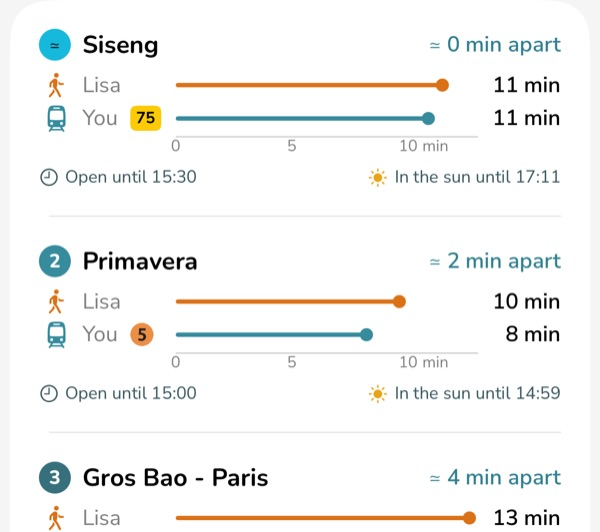
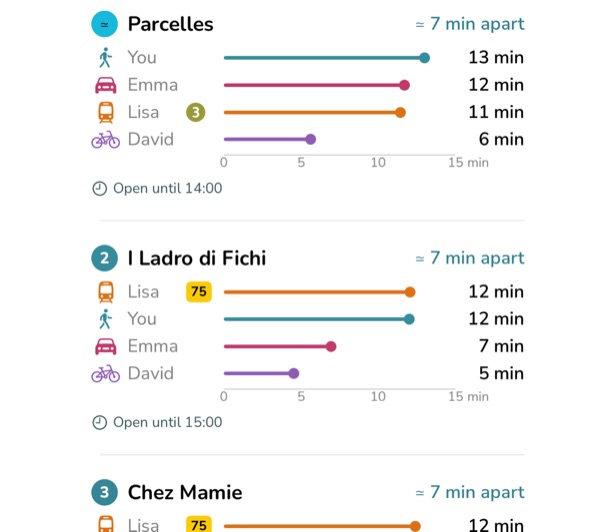
Landing: step 3 from the group screen; AlephB monogram in blue on the baseline
- How it works, step 3: the ranked spots of the same 02-group screen as
  steps 1 and 2 (same four friends, the step 2 spot first).
- Footer (landing pages and privacy): the monogram is painted in
  var(--tint) like the word, at cap height on the text's baseline.

Claude-Session: https://claude.ai/code/session_01DPYBVo6XJBHKjMg9L24xGH

diff --git a/fr/index.html b/fr/index.html
@@ -131,7 +131,7 @@ layout: null
     <ol class="steps">
       <li><img class="step-shot" src="/img/fr/how-1.jpg" alt="Quatre personnes, chacune avec son point de départ, et de quoi ajouter quelqu’un ou inviter des amis" width="600" height="532" loading="lazy"><h3>Ajoute tout le monde</h3><p>Pars d’où tu es, ajoute tes amis ou invite-les avec un lien. À deux ou à dix, chacun avec son point de départ.</p></li>
       <li><img class="step-shot" src="/img/fr/how-2.jpg" alt="Le moyen de transport et le temps de trajet de chacun jusqu’à une adresse" width="600" height="532" loading="lazy"><h3>Dis comment chacun vient</h3><p>L’une vient à pied, l’autre en métro, le troisième à vélo. Le temps de chacun est calculé avec son vrai moyen de transport.</p></li>
-      <li><img class="step-shot" src="/img/fr/how-3.jpg" alt="Les adresses classées, chacune avec l’écart en minutes entre les temps de trajet" width="600" height="532" loading="lazy"><h3>Choisis parmi les adresses les plus justes</h3><p>Les bars, cafés et restaurants où les temps de trajet sont les plus proches arrivent en tête. Ouvre l’itinéraire ou partage l’adresse en un geste.</p></li>
+      <li><img class="step-shot" src="/img/fr/how-3.jpg" alt="Les adresses classées pour les quatre mêmes amis, chacune avec l’écart en minutes entre leurs temps de trajet" width="600" height="532" loading="lazy"><h3>Choisis parmi les adresses les plus justes</h3><p>Les bars, cafés et restaurants où les temps de trajet sont les plus proches arrivent en tête. Ouvre l’itinéraire ou partage l’adresse en un geste.</p></li>
     </ol>
   </section>
 

diff --git a/es/index.html b/es/index.html
@@ -131,7 +131,7 @@ layout: null
     <ol class="steps">
       <li><img class="step-shot" src="/img/es/how-1.jpg" alt="Cuatro personas, cada una con su punto de partida, y botones para añadir a alguien o invitar a amigos" width="600" height="532" loading="lazy"><h3>Añade a todos</h3><p>Empieza desde donde estás y añade a tus amigos o invítalos con un enlace. Dos personas o un grupo entero, cada uno con su punto de partida.</p></li>
       <li><img class="step-shot" src="/img/es/how-2.jpg" alt="La forma de moverse y el tiempo de trayecto de cada uno hasta un lugar" width="600" height="532" loading="lazy"><h3>Di cómo va cada uno</h3><p>Una va andando, otro en metro, otra en bici. Cada trayecto se calcula según cómo se mueve de verdad esa persona.</p></li>
-      <li><img class="step-shot" src="/img/es/how-3.jpg" alt="Los lugares ordenados, cada uno con cuántos minutos separan los tiempos de trayecto" width="600" height="532" loading="lazy"><h3>Elige entre los lugares más justos</h3><p>Primero salen los bares, cafeterías y restaurantes donde los tiempos de trayecto de todos se parecen más. Abre la ruta o comparte el lugar con un toque.</p></li>
+      <li><img class="step-shot" src="/img/es/how-3.jpg" alt="Los lugares ordenados para los mismos cuatro amigos, cada uno con cuántos minutos separan sus tiempos de trayecto" width="600" height="532" loading="lazy"><h3>Elige entre los lugares más justos</h3><p>Primero salen los bares, cafeterías y restaurantes donde los tiempos de trayecto de todos se parecen más. Abre la ruta o comparte el lugar con un toque.</p></li>
     </ol>
   </section>
 

diff --git a/landing.css b/landing.css
@@ -216,12 +216,12 @@ section[aria-labelledby="sun-title"] .feature li::before { content: "\2600\FE0F"
 footer { padding-block: 40px 56px; border-top: 1px solid var(--hair); display: flex; flex-wrap: wrap; gap: 16px 32px; justify-content: space-between; font-size: 15px; color: var(--muted); }
 footer .links { display: flex; flex-wrap: wrap; gap: 20px; }
 footer a { color: var(--muted); }
-/* AlephB’s monogram after its name, in the link’s colour (a mask, so it follows light and dark). */
-.alephb { display: inline-flex; align-items: center; gap: 5px; }
+/* AlephB’s monogram after its name, in the brand blue (a mask), sitting on the text’s baseline at cap height. */
+.alephb { white-space: nowrap; }
 /* AlephB and the email in the brand blue, underlined on hover. */
 footer a.alephb, footer a[href^="mailto:"] { color: var(--tint); text-decoration: none; }
 footer a.alephb:hover, footer a[href^="mailto:"]:hover { text-decoration: underline; }
-.alephb-logo { width: 27px; height: 15px; background: currentColor; -webkit-mask: url(/img/alephb.svg) center / contain no-repeat; mask: url(/img/alephb.svg) center / contain no-repeat; }
+.alephb-logo { display: inline-block; height: 0.7em; width: 1.27em; margin-left: 0.3em; vertical-align: baseline; background-color: var(--tint); -webkit-mask-image: url(/img/alephb.svg); mask-image: url(/img/alephb.svg); -webkit-mask-size: contain; mask-size: contain; -webkit-mask-repeat: no-repeat; mask-repeat: no-repeat; -webkit-mask-position: left bottom; mask-position: left bottom; }
 .email { user-select: all; color: var(--fg); }
 
 @media (max-width: 860px) {

diff --git a/de/index.html b/de/index.html
@@ -131,7 +131,7 @@ layout: null
     <ol class="steps">
       <li><img class="step-shot" src="/img/de/how-1.jpg" alt="Vier Personen, alle mit ihrem Startpunkt, und Knöpfe, um jemanden hinzuzufügen oder Freunde einzuladen" width="600" height="532" loading="lazy"><h3>Alle hinzufügen</h3><p>Starte da, wo du bist, und füge Freunde hinzu oder lade sie per Link ein. Zu zweit oder als ganze Gruppe, alle mit ihrem eigenen Startpunkt.</p></li>
       <li><img class="step-shot" src="/img/de/how-2.jpg" alt="Verkehrsmittel und Fahrzeit aller zu einem Ort" width="600" height="532" loading="lazy"><h3>Sag, wie alle hinkommen</h3><p>Eine läuft, einer nimmt die U-Bahn, eine fährt Rad. Jeder Weg wird so berechnet, wie die Person wirklich unterwegs ist.</p></li>
-      <li><img class="step-shot" src="/img/de/how-3.jpg" alt="Die Orte in Reihenfolge, jeweils mit dem Unterschied der Fahrzeiten in Minuten" width="600" height="532" loading="lazy"><h3>Wähl aus den fairsten Orten</h3><p>Bars, Cafés und Restaurants, bei denen die Fahrzeiten aller am nächsten beieinanderliegen, stehen oben. Öffne die Route oder teile den Ort mit einem Tipp.</p></li>
+      <li><img class="step-shot" src="/img/de/how-3.jpg" alt="Die Orte in Reihenfolge für dieselben vier Freunde, jeweils mit dem Unterschied ihrer Fahrzeiten in Minuten" width="600" height="532" loading="lazy"><h3>Wähl aus den fairsten Orten</h3><p>Bars, Cafés und Restaurants, bei denen die Fahrzeiten aller am nächsten beieinanderliegen, stehen oben. Öffne die Route oder teile den Ort mit einem Tipp.</p></li>
     </ol>
   </section>
 

diff --git a/_includes/landing-en.html b/_includes/landing-en.html
@@ -142,7 +142,7 @@
     <ol class="steps">
       <li><img class="step-shot" src="/img/en/how-1.jpg" alt="Four people, each with their starting place, and buttons to add another person or invite friends" width="600" height="532" loading="lazy"><h3>Add everyone</h3><p>Start from where you are, then add friends or invite them with a link. Two people or a whole group, each with their own starting point.</p></li>
       <li><img class="step-shot" src="/img/en/how-2.jpg" alt="Each person’s way of travelling and travel time to one spot" width="600" height="532" loading="lazy"><h3>Say how each one travels</h3><p>One walks, one takes the metro, one cycles. Every journey is timed the way that person actually travels.</p></li>
-      <li><img class="step-shot" src="/img/en/how-3.jpg" alt="The spots ranked, each with how many minutes apart everyone’s travel times are" width="600" height="532" loading="lazy"><h3>Pick from the fairest spots</h3><p>Bars, cafés and restaurants come first where everyone’s travel times are closest. Open the route or share the spot in one tap.</p></li>
+      <li><img class="step-shot" src="/img/en/how-3.jpg" alt="The ranked spots for the same four friends, each with how many minutes apart their travel times are" width="600" height="532" loading="lazy"><h3>Pick from the fairest spots</h3><p>Bars, cafés and restaurants come first where everyone’s travel times are closest. Open the route or share the spot in one tap.</p></li>
     </ol>
   </section>
 

diff --git a/privacy.html b/privacy.html
@@ -52,8 +52,8 @@ main .email { font-weight: 550; }
 
 footer { padding-block: 40px 56px; border-top: 1px solid var(--hair); display: flex; flex-wrap: wrap; gap: 16px 32px; justify-content: space-between; font-size: 15px; color: var(--muted); }
 footer .links { display: flex; flex-wrap: wrap; gap: 20px; }
-.alephb { display: inline-flex; align-items: center; gap: 5px; }
-.alephb-logo { width: 27px; height: 15px; background: currentColor; -webkit-mask: url(/img/alephb.svg) center / contain no-repeat; mask: url(/img/alephb.svg) center / contain no-repeat; }
+.alephb { white-space: nowrap; }
+.alephb-logo { display: inline-block; height: 0.7em; width: 1.27em; margin-left: 0.3em; vertical-align: baseline; background-color: var(--tint); -webkit-mask-image: url(/img/alephb.svg); mask-image: url(/img/alephb.svg); -webkit-mask-size: contain; mask-size: contain; -webkit-mask-repeat: no-repeat; mask-repeat: no-repeat; -webkit-mask-position: left bottom; mask-position: left bottom; }
 footer a.alephb, footer a[href^="mailto:"] { color: var(--tint); text-decoration: none; }
 footer a.alephb:hover, footer a[href^="mailto:"]:hover { text-decoration: underline; }
 footer a { color: var(--muted); }
